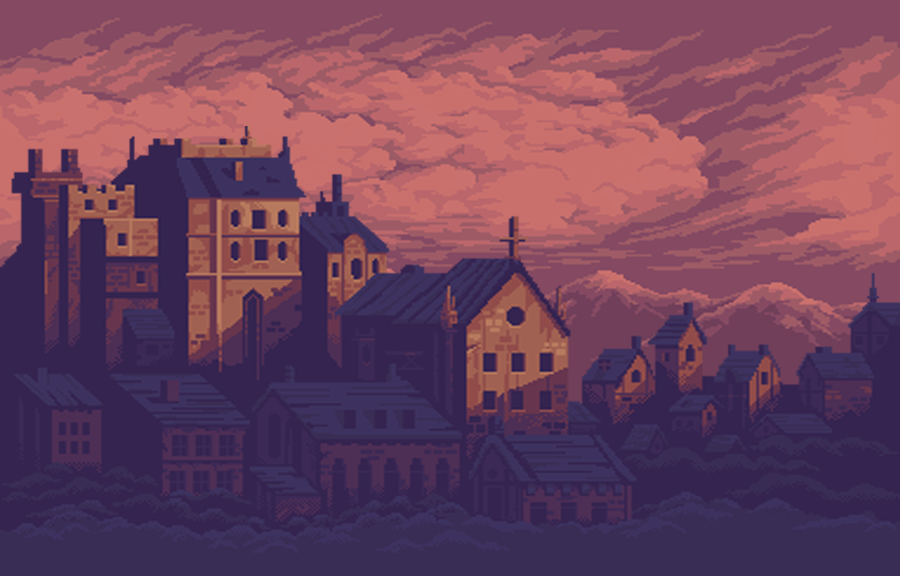
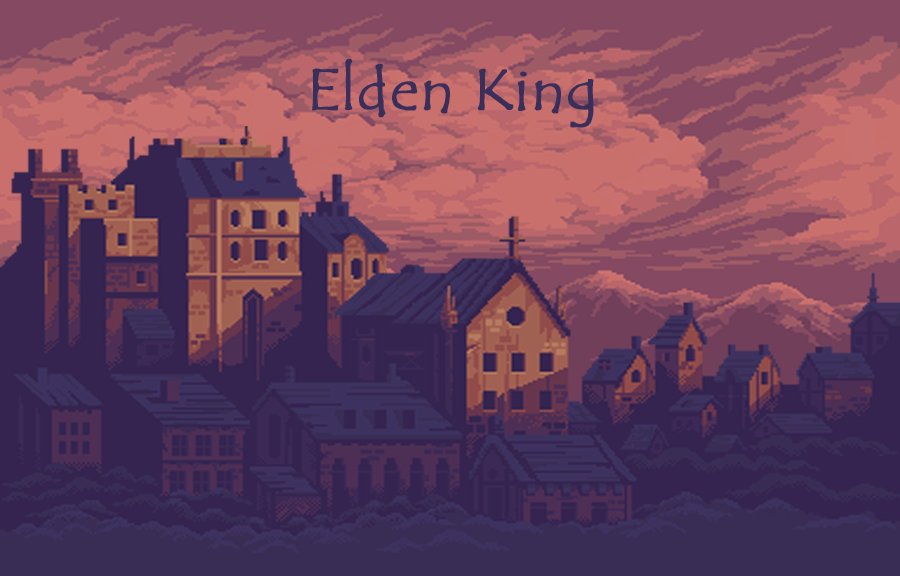
..

Changed region(s): [[0.3422, 0.0938, 0.4978, 0.2188], [0.5289, 0.125, 0.6844, 0.2188]]

diff --git a/css/style.css b/css/style.css
@@ -13,7 +13,7 @@ a:visited {
 }
 
 #navigation {
-    background: wheat;
+    background: purple;
 }
 
 #navigation .right {
@@ -27,7 +27,7 @@ a:visited {
 }
 
 #navigation ul .active {
-    background: red;
+    background: brown;
 }
 
 #navigation ul li {
@@ -35,7 +35,7 @@ a:visited {
 }
 
 #navigation ul li:hover {
-    background: #fff;
+    background: black;
     color: #8b0000;
 }
 
@@ -44,21 +44,11 @@ a:visited {
     line-height: 64px;
     text-decoration: none;
     padding: 0 15px;
-    color: black;
+    color: white;
 }
 
 #main {
     text-align: center;
-}
-
-#game {
-    display: flex;
-
-    /* This centers our sketch horizontally. */
-    justify-content: center;
-
-    /* This centers our sketch vertically. */
-    align-items: center;
 }
 
 #footer {
@@ -66,20 +56,20 @@ a:visited {
     position: absolute;
     bottom: 0;
     width: 100%;
-    background: #ebebeb;
+    background: purple;
     line-height: 50px;
-    color: #7b7b7b;
+    color: white;
 }
 
 #footer a {
-    color: #7b7b7b;
+    color: white;
     text-decoration: none;
     padding-left: 10px;
     padding-right: 10px;
 }
 
 #footer a:hover {
-    color: #000;
+    color: orange;
 }
 
 #footer .left {
@@ -90,15 +80,85 @@ a:visited {
     float: right;
 }
 
-.button {
-    border: none;
-    color: white;
-    background-color: #4CAF50;
-    padding: 15px 32px;
+#title {
+    font-size: 40px;
+    margin-top: 2%;
+}
+
+/* Index */
+#preview {
     text-align: center;
-    text-decoration: none;
-    display: inline-block;
-    font-size: 16px;
-    margin: 4px 2px;
+    margin-left: 1%;
+    margin-right: 1%;
+    margin-top: 3%;
+}
+
+#preview li {
+    display: inline;
+    float: left;
+    margin-left: 10px;
+}
+
+#preview li img {
+    width: 450px;
+    height: 285px;
+}
+
+#button {
+    border: none;
+    color: orange;
+    background-color: purple;
+    padding: 20px 50px;
+    font-size: 20px;
     cursor: pointer;
+    margin-top: 3%;
+}
+
+/* Credits */
+#cards {
+    text-align: center;
+    margin-left: 1%;
+    margin-right: 1%;
+    margin-top: 1%;
+}
+
+.card {
+    display: inline-block;
+    width: auto;
+    background-color: wheat;
+    box-shadow: 0 4px 8px 0 rgba(0, 0, 0, 0.2);
+    margin: 8px;
+}
+
+.container {
+    padding: 0 16px;
+}
+
+.container::after,
+.row::after {
+    content: "";
+    clear: both;
+    display: table;
+}
+
+.card img {
+    width: 200px;
+    height: 200px;
+}
+
+.card button {
+    border: none;
+    outline: 0;
+    display: inline-block;
+    padding: 8px;
+    color: white;
+    background-color: purple;
+    text-align: center;
+    cursor: pointer;
+    width: 50%;
+    margin-top: 5px;
+}
+
+.card button:hover {
+    background-color: #555;
 }

diff --git a/credits.html b/credits.html
@@ -3,20 +3,19 @@
 
 <head>
     <title>Credits</title>
-    <link rel="icon" type="image/x-icon" href="/assets/logo.png" alt="Λογότυπο">
     <meta charset="UTF-8">
     <meta name="viewport" content="width=device-width, initial-scale=1.0">
     <meta http-equiv="X-UA-Compatible" content="IE=edge">
     <meta name="author" content="co-authored by Anastasios Mpourtsouklis, Dimitrios Paraskeuiotis">
-    <link rel="stylesheet" href="/css/style.css">
+    <link rel="stylesheet" href="./css/style.css">
 </head>
 
 <body>
     <header id="header">
         <nav id="navigation">
             <ul>
-                <li><a href="/index.html">HOME</a></li>
-                <li class="active"><a href="/credits.html">CREDITS</a></li>
+                <li><a href="index.html">HOME</a></li>
+                <li class="active"><a href="credits.html">CREDITS</a></li>
 
                 <div class="right">
                     <li><a href="">LOG IN</a></li>
@@ -27,13 +26,34 @@
     </header>
 
     <main id="main">
-        <h1 class="title">Credits</h1>
+        <h1 id="title">Credits</h1>
 
+        <section id="cards">
+            <div class="card">
+                <img src="./assets/images/Credits/1.png">
+                <div class="container">
+                    <h2>Δημήτριος Παρασκευιώτης</h2>
+                    <p>3190164</p>
+                    <p>p3190164@aueb.gr</p>
+                    <a href="https://github.com/JimmyParaske"><button>GitHub</button></a>
+                </div>
+            </div>
+
+            <div class="card">
+                <img src="./assets/images/Credits/2.png">
+                <div class="container">
+                    <h2>Αναστάσιος Μπουρτσουκλής</h2>
+                    <p>3190138</p>
+                    <p>p3190138@aueb.gr</p>
+                    <a href="https://github.com/tasosmpourtsouklis"><button>GitHub</button></a>
+                </div>
+            </div>
+        </section>
     </main>
 
     <footer id="footer">
-        <p class="left"> <a href="/index.html">Home</a> <span>|</span> <a href="/credits.html">Credits</a></p>
-        <p class="right">2022.</a></p>
+        <p class="left"> <a href="index.html">Home</a> <span>|</span> <a href="credits.html">Credits</a></p>
+        <p class="right"><a href="https://www.aueb.gr/">A.U.E.B.</a>| 2022.</p>
     </footer>
 </body>
 

diff --git a/index.html b/index.html
@@ -8,15 +8,15 @@
     <meta name="viewport" content="width=device-width, initial-scale=1.0">
     <meta http-equiv="X-UA-Compatible" content="IE=edge">
     <meta name="author" content="co-authored by Anastasios Mpourtsouklis, Dimitrios Paraskeuiotis">
-    <link rel="stylesheet" href="/css/style.css">
+    <link rel="stylesheet" href="./css/style.css">
 </head>
 
 <body>
     <header id="header">
         <nav id="navigation">
             <ul>
-                <li class="active"><a href="/index.html">HOME</a></li>
-                <li><a href="/credits.html">CREDITS</a></li>
+                <li class="active"><a href="index.html">HOME</a></li>
+                <li><a href="credits.html">CREDITS</a></li>
 
                 <div class="right">
                     <li><a href="">LOG IN</a></li>
@@ -27,16 +27,21 @@
     </header>
 
     <main id="main">
-        <h1 class="title">GAME</h1>
+        <h1 id="title">Elden King</h1>
 
-        <p class="description">prloupipes</p>
+        <ul id="preview">
+            <li><img src="./assets/images/Preview/1.png"></li>
+            <li><img src="./assets/images/Preview/2.png"></li>
+            <li><img src="./assets/images/Preview/3.png"></li>
+            <li><img src="./assets/images/Preview/4.png"></li>
+        </ul>
 
-        <a href="play.html"><button class="button">PLAY NOW</button></a>
+        <a href="play.html"><button id="button">PLAY NOW</button></a>
     </main>
 
     <footer id="footer">
-        <p class="left"> <a href="/index.html">Home</a> <span>|</span> <a href="/credits.html">Credits</a></p>
-        <p class="right">2022.</a></p>
+        <p class="left"> <a href="index.html">Home</a> <span>|</span> <a href="credits.html">Credits</a></p>
+        <p class="right"><a href="https://www.aueb.gr/">A.U.E.B.</a>| 2022.</p>
     </footer>
 </body>
 

diff --git a/play.html b/play.html
@@ -3,20 +3,19 @@
 
 <head>
   <title>Play</title>
-  <link rel="icon" type="image/x-icon" href="./assets/images/icon-small.png">
   <meta charset="UTF-8">
   <meta name="viewport" content="width=device-width, initial-scale=1.0">
   <meta http-equiv="X-UA-Compatible" content="IE=edge">
   <meta name="author" content="co-authored by Anastasios Mpourtsouklis, Dimitrios Paraskeuiotis">
-  <link rel="stylesheet" href="/css/style.css">
+  <link rel="stylesheet" href="./css/style.css">
 </head>
 
 <body>
   <header id="header">
     <nav id="navigation">
       <ul>
-        <li><a href="/index.html">HOME</a></li>
-        <li><a href="/credits.html">CREDITS</a></li>
+        <li><a href="index.html">HOME</a></li>
+        <li><a href="credits.html">CREDITS</a></li>
 
         <div class="right">
           <li><a href="">LOG IN</a></li>
@@ -71,8 +70,8 @@
   </main>
 
   <footer id="footer">
-    <p class="left"> <a href="/index.html">Home</a> <span>|</span> <a href="/credits.html">Credits</a></p>
-    <p class="right">2022.</a></p>
+    <p class="left"> <a href="index.html">Home</a> <span>|</span> <a href="credits.html">Credits</a></p>
+    <p class="right"><a href="https://www.aueb.gr/">A.U.E.B.</a>| 2022.</p>
   </footer>
 </body>
 

diff --git a/src/sketch.js b/src/sketch.js
@@ -135,8 +135,8 @@ function preloadEnemies() {
   skeletonLeft = loadAnimation('./assets/images/Skeleton/WalkLeft.png', { size: [270, 270], frames: 4 });
   skeletonRight = loadAnimation('./assets/images/Skeleton/WalkRight.png', { size: [270, 270], frames: 4 });
 
-  batLeft = loadAnimation('./assets/images/bat_right.png', { size: [60.25, 64], frames: 4 });
-  batRight = loadAnimation('./assets/images/bat_left.png', { size: [60.25, 64], frames: 4 });
+  batLeft = loadAnimation('./assets/images/Bat/right.png', { size: [60.25, 64], frames: 4 });
+  batRight = loadAnimation('./assets/images/Bat/left.png', { size: [60.25, 64], frames: 4 });
 }
 
 function preloadAttacks() {

diff --git a/run.py b/run.py
@@ -1,0 +1,14 @@
+import os
+import webbrowser
+from http.server import SimpleHTTPRequestHandler, HTTPServer
+
+os.chdir('./')
+server_address = ('', 8000)
+
+webbrowser.open('http://localhost:8000/', new=2)
+
+try:
+    httpd = HTTPServer(server_address, SimpleHTTPRequestHandler)
+    httpd.serve_forever()
+except Exception:
+    httpd.shutdown()
